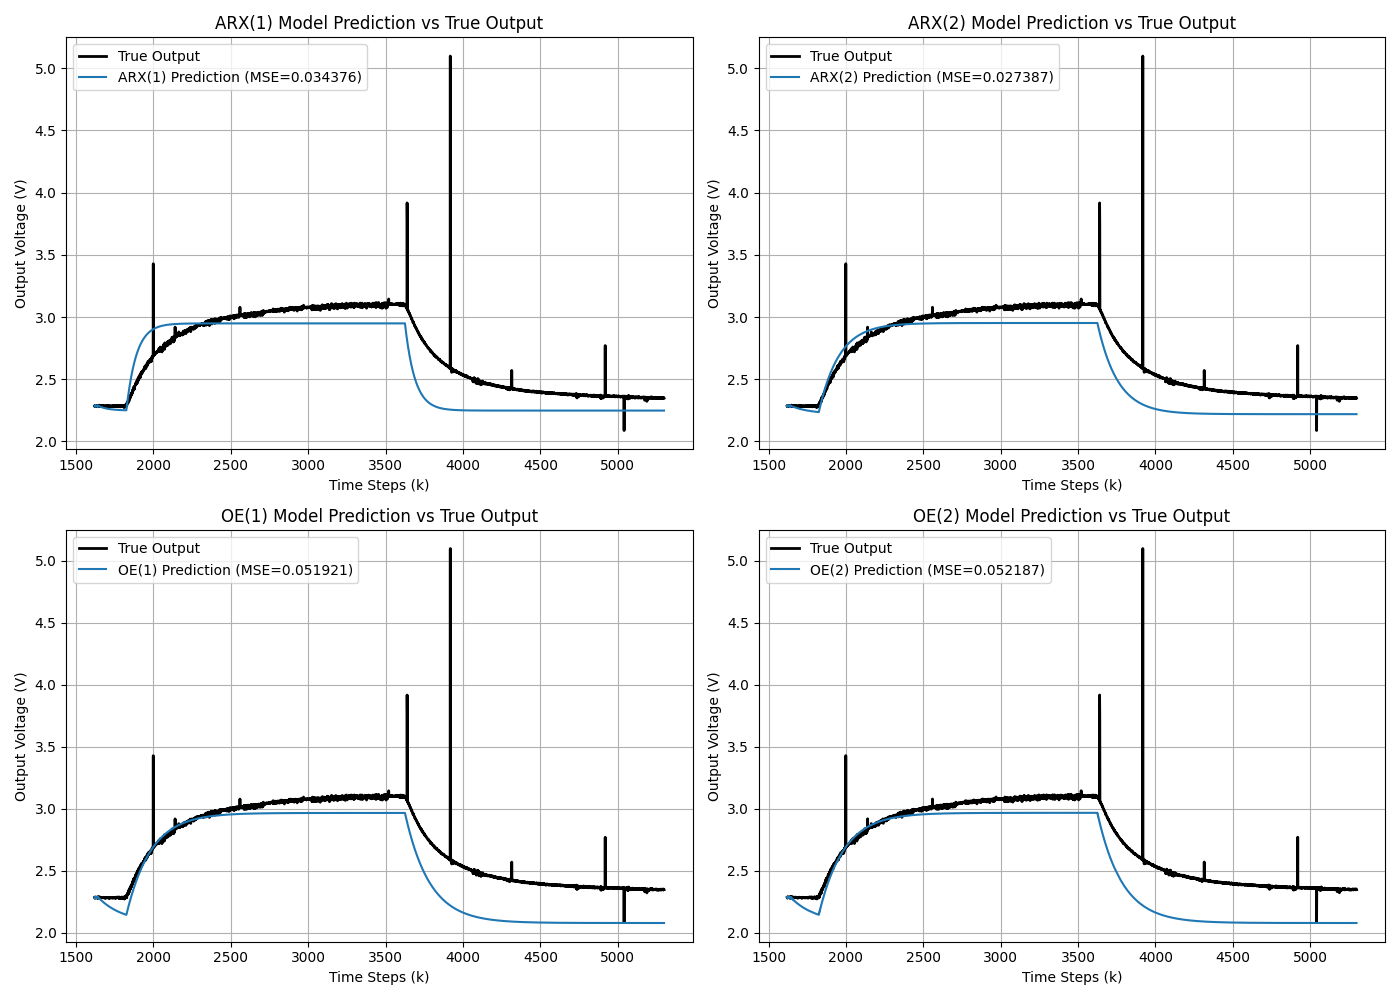
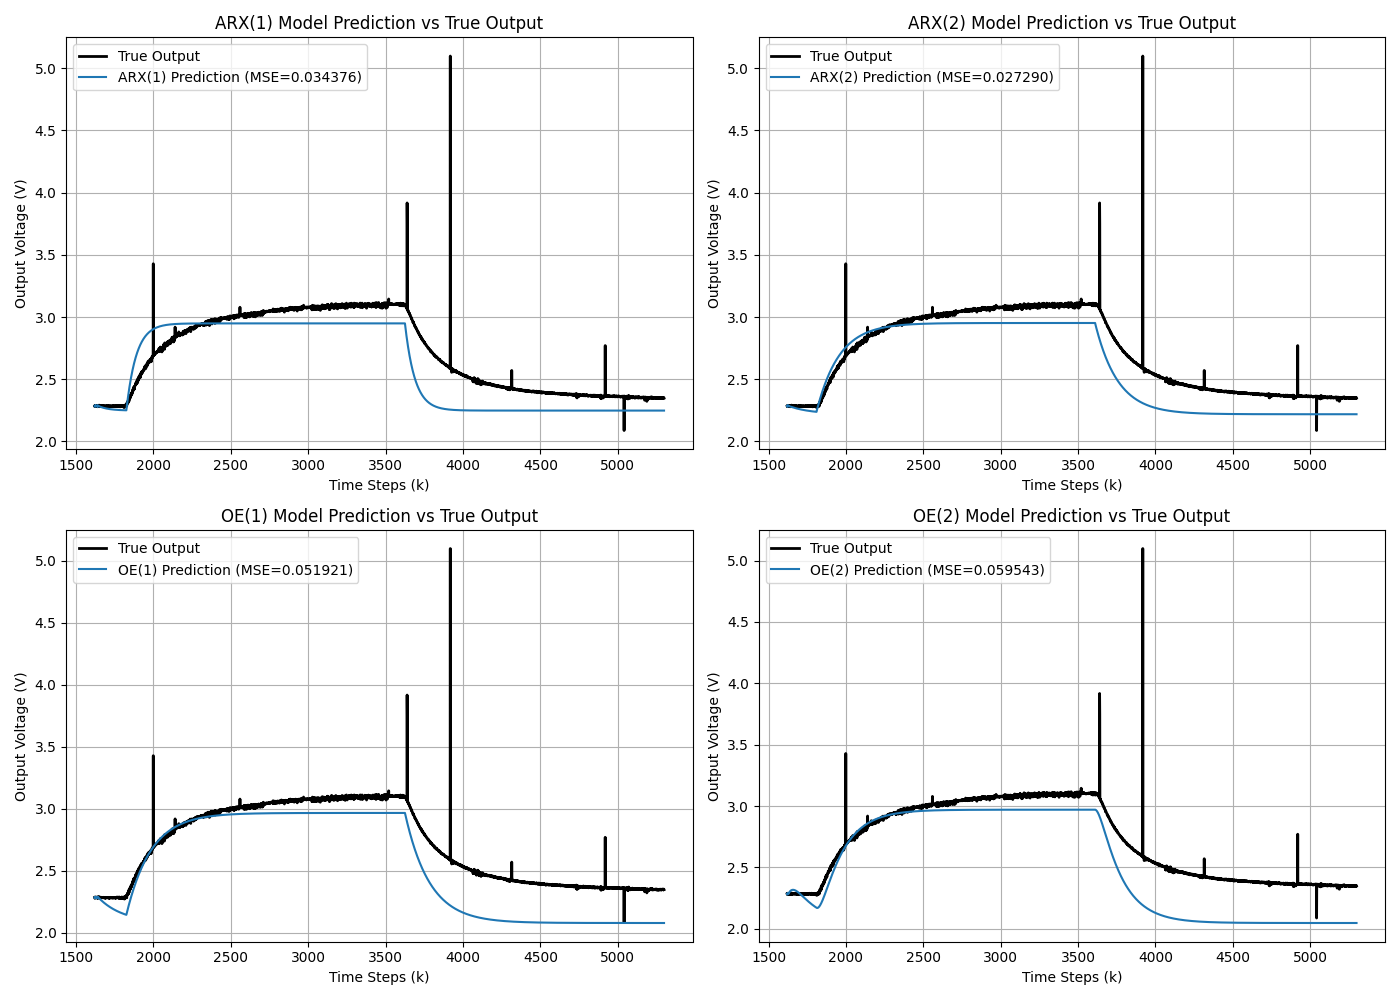
Refactor delay handling in model fitting; introduce separate delays for first and second order models

diff --git a/torneira/identificacao/identifica.py b/torneira/identificacao/identifica.py
@@ -48,7 +48,8 @@ def main():
         y_fit_mean,
     ) = prepare_data(k, u, y)
 
-    delay = 25
+    delay_firstorder = 25
+    delay_secondorder = 10
 
     if "POLY" in MODELS:
         orders = [1, 2]
@@ -56,14 +57,19 @@ def main():
         arx_results = {}
         oe_results = {}
 
+        delays = {
+            1: delay_firstorder,
+            2: delay_secondorder,
+        }
+
         for order in orders:
 
-            y_init = y_test_demeaned[: max(order, delay)]
+            y_init = y_test_demeaned[: max(order, delays[order])]
 
-            arx_theta = fit_arx(order, delay, u_fit_demeaned, y_fit_demeaned)
+            arx_theta = fit_arx(order, delays[order], u_fit_demeaned, y_fit_demeaned)
             arx_y_pred, arx_mse = test_arx(
                 order,
-                delay,
+                delays[order],
                 arx_theta,
                 u_test_demeaned,
                 y_test_demeaned,
@@ -72,10 +78,10 @@ def main():
             arx_y_pred_remeaned = arx_y_pred + y_fit_mean
             arx_results[order] = (arx_y_pred_remeaned, arx_mse)
 
-            oe_theta = fit_oe(order, delay, u_fit_demeaned, y_fit_demeaned)
+            oe_theta = fit_oe(order, delays[order], u_fit_demeaned, y_fit_demeaned)
             oe_y_pred, oe_mse = test_oe(
                 order,
-                delay,
+                delays[order],
                 oe_theta,
                 u_test_demeaned,
                 y_test_demeaned,
@@ -95,14 +101,19 @@ def main():
             print(f"OE({order}) MSE: {mse:.4f}")
 
     if "SS" in MODELS:
-        matrices_ss = fit_ss(2, delay, u_fit_demeaned, y_fit_demeaned)
+        matrices_ss = fit_ss(2, delay_firstorder, u_fit_demeaned, y_fit_demeaned)
         nx_est = matrices_ss[0].shape[0]
 
         # Estimate initial state from the first test output sample.
         x_init = get_states_from_output(matrices_ss[2], y_test_demeaned[0])
 
         ss_y_pred, ss_mse = test_ss(
-            nx_est, delay, matrices_ss, u_test_demeaned, y_test_demeaned, x_init
+            nx_est,
+            delay_firstorder,
+            matrices_ss,
+            u_test_demeaned,
+            y_test_demeaned,
+            x_init,
         )
         ss_y_pred_remeaned = ss_y_pred + y_fit_mean
 
